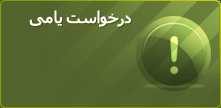
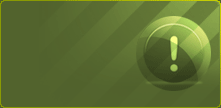
15-5-2010-1

diff --git a/system/application/assets/css/farm.css b/system/application/assets/css/farm.css
@@ -432,7 +432,7 @@
 {
     float: right;
 }
-.reapCounter{height:16px;width:125px;display: block;}
+.reapCounter{height:16px;width:126px;display: block;}
 .resourceTimeHolder
 {
     height: 15px;
@@ -453,11 +453,31 @@
 
 #farmStatus
 {
+    margin-top: 6px;
+    position: relative;
+}
+#farmStatus div.on
+{
+    background: url(../images/farm/status-on.png) no-repeat  center;
     width: 221px;
     height: 77px;
     display: block;
-    background: url(../images/farm/status.png) no-repeat  center;
-    margin-top: 6px;
+}
+.statusText
+{
+    display:block;
+    height:42px;
+    position:absolute;
+    right:69px;
+    top:27px;
+    width:140px;
+}
+#farmStatus div.off
+{
+    background: url(../images/farm/status-off.png) no-repeat  center;
+    width: 221px;
+    height: 78px;
+    display: block;
 }
 #farmInventory
 {
@@ -598,7 +618,18 @@
     display: block;
     position: relative;
 }
-#farmMission div span
+#farmMission div span.title
+{
+    height:20px;
+    right:91px;
+    top:6px;
+    width:120px;
+    display: block;
+    position: absolute;
+    font-weight: bold;
+    font-size: 18px;
+}
+#farmMission div span.text
 {
     height:68px;
     right:92px;
@@ -607,11 +638,11 @@
     display: block;
     position: absolute;
 }
-#farmMission .active
+#farmMission .on
 {
     background: url(../images/farm/mission-on.png) no-repeat  center;
 }
-#farmMission .inactive
+#farmMission .off
 {
     background: url(../images/farm/mission-off.png) no-repeat  center;
 }
@@ -619,12 +650,52 @@
 
 #farmEquipment
 {
+    margin-right: 11px;
+    float: right;
+    position: relative;
+}
+#farmEquipment div.on
+{
     width: 221px;
     height: 108px;
     display: block;
-    background: url(../images/farm/equipment.png) no-repeat  center;
-    margin-right: 11px;
-    float: right;
+    background: url(../images/farm/mission-on.png) no-repeat  center;
+}
+#farmEquipment div.off
+{
+    width: 221px;
+    height: 108px;
+    display: block;
+    background: url(../images/farm/mission-off.png) no-repeat  center;
+}
+#farmEquipment div span.title
+{
+    height:20px;
+    right:91px;
+    top:6px;
+    width:120px;
+    display: block;
+    position: absolute;
+    font-weight: bold;
+    font-size: 18px;
+}
+#farmEquipment div span.text
+{
+    height:68px;
+    right:92px;
+    top:33px;
+    width:120px;
+    display: block;
+    position: absolute;
+}
+#farmEquipment div span.icon
+{
+    display:block;
+    height:58px;
+    position:absolute;
+    right:18px;
+    top:24px;
+    width:58px;
 }
 
 

diff --git a/system/application/views/farms/show.tpl.php b/system/application/views/farms/show.tpl.php
@@ -104,7 +104,23 @@
         params['equipment'] = equipment;
         params['farm_id'] = farm_id;
 
-        ajax_request('#farmSection', '<?= base_url() ?>farms/useEquipment', params, moneyCalculate)
+        if(equipment == 'grassCutter')
+            placeHolder = "#section-2";
+        else if(equipment == 'waterPump')
+            placeHolder = "#section-3";
+        else if(equipment == 'rockBreaker')
+            placeHolder = "#section-4";
+        
+        if($("#equipmentHolder-"+equipment).next() != "")
+        {
+            $("#equipmentHolder-"+equipment).hide();
+            $("#equipmentHolder-"+equipment).next().fadeIn('fast');
+        }
+        
+
+        $(placeHolder).children().fadeOut();
+
+        ajax_request(placeHolder, '<?= base_url() ?>farms/useEquipment', params, moneyCalculate)
     }
     function deffenceWithGun(farm_id)
     {
@@ -341,7 +357,21 @@
                     </div>
                 <?php endif; ?>
             </div>
-            <div id="farmStatus"></div>
+            <div id="farmStatus">
+                <?php if($statusBox): ?>
+                <div class="on">
+                    <span class="statusText">
+                        <?= $statusBox ?>
+                    </span>
+                </div>
+                <?php else: ?>
+                <div class="off">
+                    <span class="statusText">
+                        <?= $lang['haventStack'] ?>
+                    </span>
+                </div>
+                <?php endif; ?>
+            </div>
         </div>
     </div>
     <div id="panel">
@@ -377,19 +407,53 @@
         </div>
         <div id="farmMission">
             <?php if(!$plant->id): ?>
-                <div class="active">
-                    <span><?= $missionBox->description ."<br/>". anchor("farms/mission/$missionBox->id",$lang['gotoMission'],array('onClick'=>"mission($missionBox->id);return false")) ?>
+                <div class="on">
+                    <span class="title"><?= $lang['yummyRequest'] ?></span>
+                    <span class="text"><?= $missionBox->description ."<br/>". anchor("farms/mission/$missionBox->id",$lang['gotoMission'],array('onClick'=>"mission($missionBox->id);return false")) ?>
                     </span>
                 </div>
             <?php else: ?>
-                <div class="inactive">
-                    <span>
+                <div class="off">
+                    <span class="title"><?= $lang['yummyRequest'] ?></span>
+                    <span class="text">
                         <?= $lang['haventMission'] ?>
                     </span>
                 </div>
             <?php endif; ?>
         </div>
-        <div id="farmEquipment"></div>
+        <div id="farmEquipment">
+            <?php if(!$equipments): ?>
+                <div class="off">
+                    <span class="title"><?= $lang['equipment'] ?></span>
+                    <span class="text"><?= $lang['haventEquipment'] ?></span>
+                </div>
+            <?php else: ?>
+                <div class="on">
+                    <span class="title"><?= $lang['equipment'] ?></span>
+                    <?php
+                    $equipCounter = 0;
+                    foreach($equipments AS $equipment): ?>
+                        <div id="equipmentHolder-<?= $equipment ?>" <?php if($equipCounter > 0) echo "style=\"display:none\"" ?>>
+                            <span class="icon">
+                                <?=  anchor("farms/useEquipment/".$equipment."/".$farm->id,
+                                    "<img src=\"".$base_img."farm/equipment/".strtolower($equipment).".png\"  title=\"".$equipment."\"/>",
+                                     array('onclick'=>"useEquipment('".$equipment."',$farm->id);return false;")) ?>
+                            </span>
+                            <span class="text"><?= $lang["equipment-$equipment"] ?></span>
+                        </div>
+                    <?php
+                    $equipCounter++;
+                    endforeach; ?>
+                        <div style="display:none">
+                            <span class="icon">
+                            </span>
+                            <span class="text">
+                                <?= $lang["haventEquipment"] ?>
+                            </span>
+                        </div>
+                </div>
+            <?php endif; ?>
+        </div>
     </div>
     <div id="bar"></div>
 </div>

diff --git a/system/application/controllers/farms.php b/system/application/controllers/farms.php
@@ -160,15 +160,14 @@ class Farms extends MainController {
 			$misObj = $misMdl->get_by_level($userFarm->level);
 			$missionBox = $misObj;
 		}
-                else
-                {
-                        $frmMisMdl = new Farmmission();
-                        $frmMisObj = $frmMisMdl->order_by("create_date","desc")->get_where(array('farm_id'=>$userFarm->id,'status'=>'2','mission_id'=>$userFarm->level));
-                        $missionBox[] = str_replace(array('__AMOUNT__','__TYPENAME__'),
-                                               array($frmMisObj->stack,$userPlant->typeName),
-                                               $this->data['lang']['mission']['stack']);
+                
+                $frmMisMdl = new Farmmission();
+                $frmMisObj = $frmMisMdl->order_by("create_date","desc")->get_where(array('farm_id'=>$userFarm->id,'status'=>'2','mission_id'=>$userFarm->level));
+                if($frmMisObj->id)
+                    $statusBox = str_replace(array('__AMOUNT__','__TYPENAME__'),
+                                           array($frmMisObj->stack,$userPlant->typeName),
+                                           $this->data['lang']['mission']['stack']);
                         
-                }
 
 		$farmAccModel = new Farmaccessory();
 		$usrFrmAcc = $farmAccModel->getFarmAccessory($userFarm->id);
@@ -209,12 +208,12 @@ class Farms extends MainController {
 
                 $equipments = array();
                 //control farm machine items
-                if($userFarm->level > 4 && $userFarm->section == 1 && !$userPlant->id)
-                        $equipments[] = 'rockBreaker';
-                if($userFarm->level > 6 && $userFarm->section == 2 && !$userPlant->id)
-                        $equipments[] = 'waterpump';
-                if($userFarm->level > 8 && $userFarm->section == 3 && !$userPlant->id)
+                if($userFarm->level > 4  && !$userPlant->id && $userFarm->section < 2)
                         $equipments[] = 'grassCutter';
+                if($userFarm->level > 6  && !$userPlant->id && $userFarm->section < 3)
+                        $equipments[] = 'waterPump';
+                if($userFarm->level > 8  && !$userPlant->id && $userFarm->section < 4)
+                        $equipments[] = 'rockBreaker';
 
 
 		$this->data['accessories'] = $accessories;
@@ -226,6 +225,7 @@ class Farms extends MainController {
 		$this->data['types'] = $allTypes;
 		$this->data['farm'] = $userFarm;
 		$this->data['missionBox'] = $missionBox;
+		$this->data['statusBox'] = $statusBox;
 		$this->data['notifications'] = $notification;
 		$this->data['equipments'] = $equipments;
 
@@ -602,7 +602,7 @@ class Farms extends MainController {
                         if($frmObj->money > self::SECTION_INCREASE_PRICE)
 			switch($_POST['equipment'])
 			{
-				case 'rockBreaker':
+				case 'grassCutter':
 					if($frmObj->level > 4 && $frmObj->section == 1)
 					{
 						$frmObj->money -= self::SECTION_INCREASE_PRICE;
@@ -610,7 +610,7 @@ class Farms extends MainController {
 						$frmObj->save();
 					}
 					break;
-				case 'waterpump':
+                                case 'waterPump':
 					if($frmObj->level > 6 && $frmObj->section == 2)
 					{
 						$frmObj->money -= self::SECTION_INCREASE_PRICE;
@@ -618,7 +618,7 @@ class Farms extends MainController {
 						$frmObj->save();
 					}
 					break;
-				case 'grassCutter':
+                                case 'rockBreaker':
 					if($frmObj->level > 8 && $frmObj->section == 3)
 					{
 						$frmObj->money -= self::SECTION_INCREASE_PRICE;
@@ -629,13 +629,15 @@ class Farms extends MainController {
 			}
                         else
                         {
-                            $params = array('money'=>$frmObj->money,'price'=>self::SECTION_INCREASE_PRICE);
+                            $params = array('money'=>$frmObj->money,'price'=>self::SECTION_INCREASE_PRICE,'height'=>80);
                             $this->error_reporter('money',$params);
                             return FALSE;
                         }
 
-
-			echo $frmObj->section;
+                        if($frmObj->plow)
+                            echo "<div class=\"plow\"></div>";
+                        else
+                            echo "<div class=\"unPlow\"></div>";
         	}	    
         }
 

diff --git a/system/application/language/persian/labels_lang.php b/system/application/language/persian/labels_lang.php
@@ -171,7 +171,14 @@
 
         $lang['haventMission'] = "الان درخواستی از یامی نداری";
         $lang['haventPlant'] = "هنوز گیاهی نکاشتی";
+        $lang['haventStack'] = "تو این مرحله هنوز چیزی جمع نکردی";
+        $lang['haventEquipment'] = "الان تجهیزات کمکی نداری";
         $lang['gotoMission'] = "شروع کن";
+        $lang['yummyRequest'] = "درخواست یامی";
+        $lang['equipment'] = "تجهیزات کمکی";
+        $lang['equipment-grassCutter'] = "با استفاده از چمنزن میتونی قطعه۲ مزرعتو باز کنی";
+        $lang['equipment-waterPump'] = "با استفاده از موتورآب میتونی قطعه۳ مزرعتو باز کنی";
+        $lang['equipment-rockBreaker'] = "با استفاده از سنگ شکن میتونی قطعه۴ مزرعتو باز کنی";
 
         $lang['plant'] = "گیاه";
         $lang['growthTime'] = "زمان رشد";
@@ -365,7 +372,7 @@
          * MISSION
          */
 
-        $lang['mission']['stack'] = "تا حالا تونستی __AMOUNT__ کیلوگرم __TYPENAME__ برای مزرعت جمع کنی";
+        $lang['mission']['stack'] = "تا حالا تونستی<br/> <b>__AMOUNT__</b> کیلوگرم <b>__TYPENAME__</b>  جمع کنی";
 
 
 

diff --git a/system/application/views/layouts/error/money.tpl.php b/system/application/views/layouts/error/money.tpl.php
@@ -1,7 +1,11 @@
+<style>
+    .boxy-inner {height: <?= $params['height'] ?>px!important;overflow:auto;}
+    .main-content{height:<?= $params['height'] ?>px!important}
+    .attention{vertical-align: middle;margin-left:10px}
+</style>
 <script>
-    Boxy.alert("<?php echo str_replace(array('__PRICE__','__MONEY__'),
-                                       array($params['price'],$params['money']),
-                                       $lang['money']['body'])  ?>",
-               null,
-               {title : "<?= $lang['money']['title'] ?>"});
+    new Boxy("<div style=\"float:right\"><img src=\"<?= $base_img ?>attention.png\" class=\"attention\"/></div><div style=\"float:right\"><?php echo str_replace(array('__PRICE__','__MONEY__'),
+                                                                                                           array($params['price'],$params['money']),
+                                                                                                           $lang['money']['body'])  ?></div>",
+             {title: "<?= $lang['money']['title'] ?>",modal: true , closeText:"<img src=\"<?= $base_img ?>/popup/boxy/close.png\" />"});
 </script>

diff --git a/system/application/views/layouts/error/public.tpl.php b/system/application/views/layouts/error/public.tpl.php
@@ -2,7 +2,7 @@
     .boxy-inner {height: <?= $params['height'] ?>px!important;overflow:auto;}
     .main-content{height:<?= $params['height'] ?>px!important}
     .attention{vertical-align: middle;margin-left:10px}
-    </style>
+</style>
 <script>
     new Boxy("<span><img src=\"<?= $base_img ?>attention.png\" class=\"attention\"/><?= $lang['error'][$params['message']] ?></span>",
              {title: "<?= $lang['public']['title'] ?>",modal: true , closeText:"<img src=\"<?= $base_img ?>/popup/boxy/close.png\" />"});
